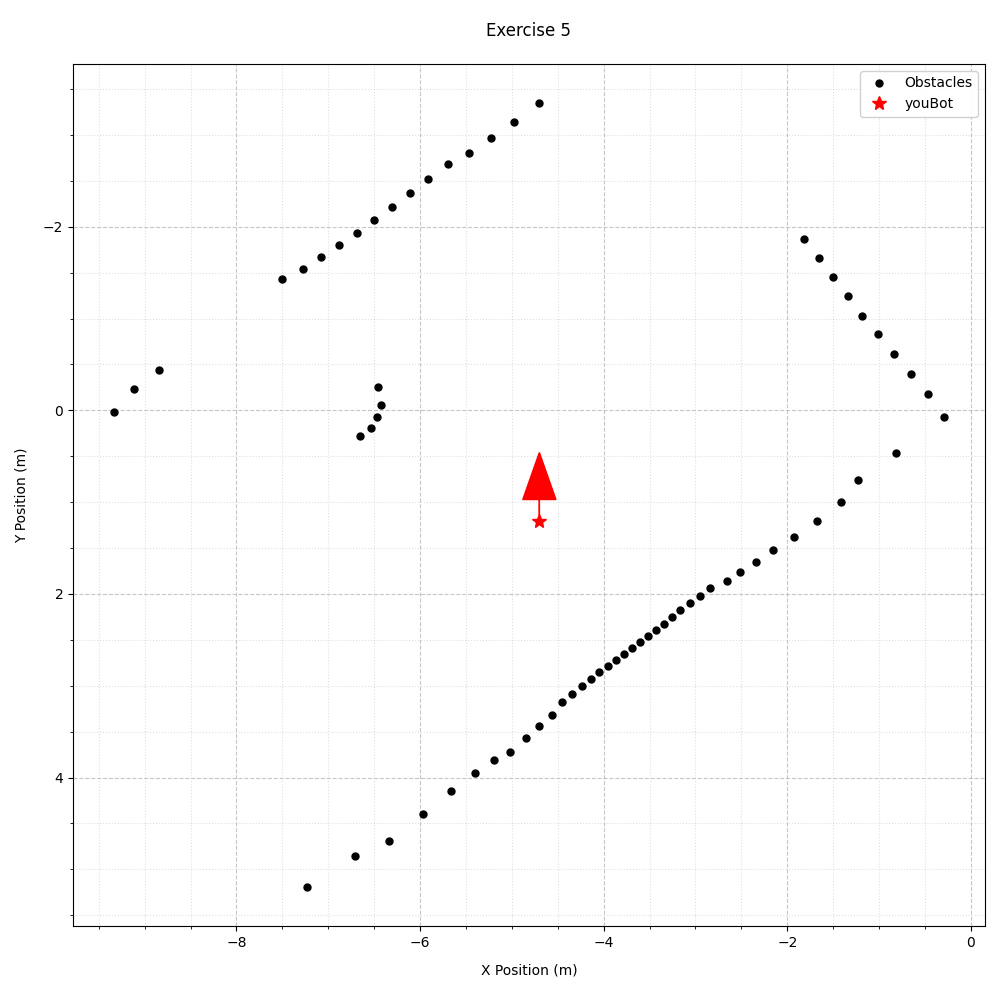
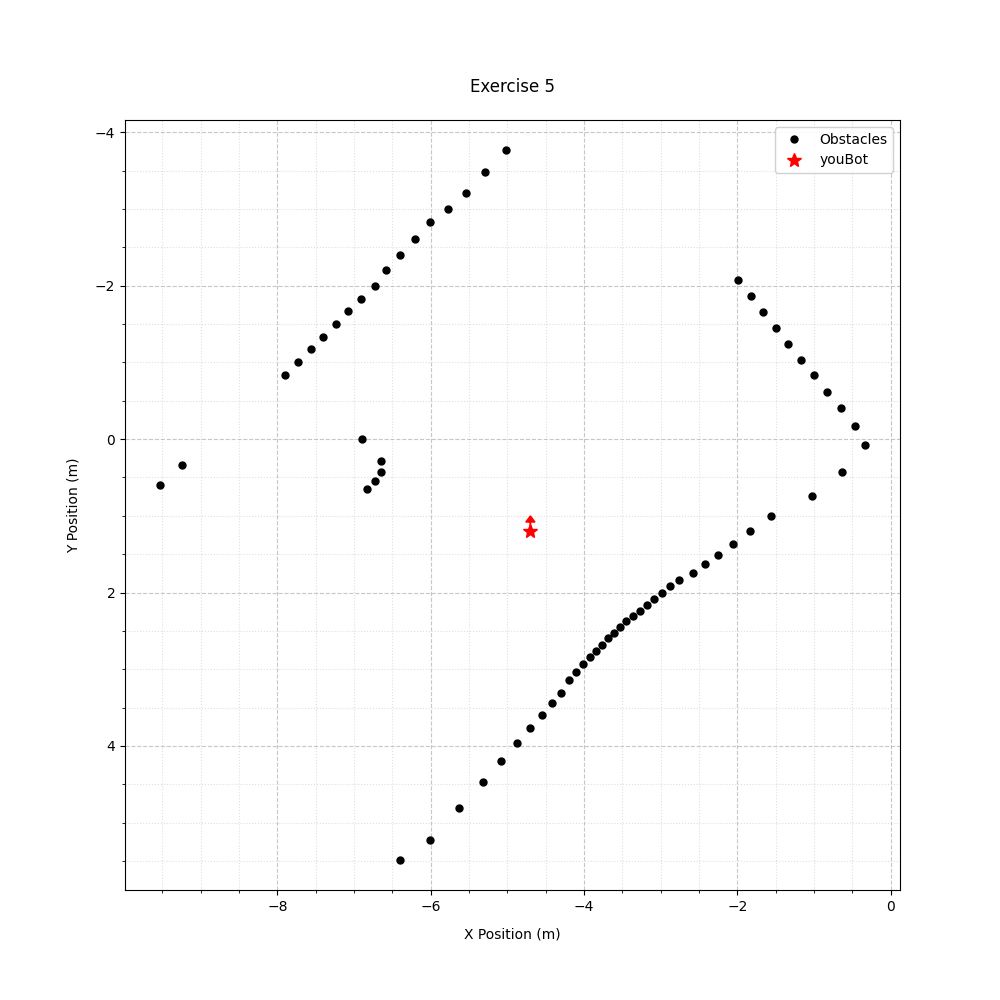
Exercise 5

diff --git a/utils/obstacle_plotter.py b/utils/obstacle_plotter.py
@@ -30,6 +30,17 @@ class ObstaclePlotter:
         ax.set_ylabel("Y Position (m)", labelpad=10)
         ax.legend(loc="upper right", framealpha=0.9)
 
+    @staticmethod
+    def _calculate_arrow_params(
+        position: Point2DWithOrientation,
+    ) -> Tuple[float, float, float, float]:
+        arrow_length = 0.20
+        dx = arrow_length * np.cos(position.yaw)
+        dy = arrow_length * np.sin(position.yaw)
+        head_width = arrow_length * 0.6
+        head_length = arrow_length * 0.4
+        return dx, dy, head_width, head_length
+
     def __create_static_plot(
         self,
         position: Point2DWithOrientation,
@@ -50,17 +61,14 @@ class ObstaclePlotter:
             label=RobotConstants.YOUBOT_NAME,
             markersize=10,
         )
-        plot_size = min(max(x) - min(x), max(y) - min(y)) if x else 0.5
-        arrow_length = plot_size * 0.20
-        dx = arrow_length * np.cos(position.yaw)
-        dy = arrow_length * np.sin(position.yaw)
+        dx, dy, head_width, head_length = self._calculate_arrow_params(position)
         ax.arrow(
             position.x,
             position.y,
             dx,
             dy,
-            head_width=arrow_length * 0.4,
-            head_length=arrow_length * 0.6,
+            head_width=head_width,
+            head_length=head_length,
             fc="r",
             ec="r",
             length_includes_head=True,
@@ -111,13 +119,13 @@ class ObstaclePlotter:
         self,
         position: Point2DWithOrientation,
         obstacles: Union[Tuple[float, float], List[Tuple[float, float]]],
-        closest_obstacle: Optional[ObstacleInfo] = None,
+        obstacle_info: Optional[ObstacleInfo] = None,
         title: str = "",
         file_name: Optional[str] = None,
     ) -> None:
         if not self.is_interactive:
             self.__create_static_plot(
-                position, obstacles, closest_obstacle, title, file_name
+                position, obstacles, obstacle_info, title, file_name
             )
             return
         if hasattr(self, "orientation_arrow") and self.orientation_arrow:
@@ -131,25 +139,23 @@ class ObstaclePlotter:
             plot_size = min(max(x) - min(x), max(y) - min(y))
         else:
             plot_size = 0.5
-        arrow_length = plot_size * 0.20
-        dx = arrow_length * np.cos(position.yaw)
-        dy = arrow_length * np.sin(position.yaw)
+        dx, dy, head_width, head_length = self._calculate_arrow_params(position)
         self.orientation_arrow = self.ax.arrow(
             position.x,
             position.y,
             dx,
             dy,
-            head_width=arrow_length * 0.2,
-            head_length=arrow_length * 0.4,
+            head_width=head_width,
+            head_length=head_length,
             fc="r",
             ec="r",
             length_includes_head=True,
             zorder=10,
         )
-        if closest_obstacle and closest_obstacle.closest_obstacle_position:
+        if obstacle_info and obstacle_info.closest_obstacle_position:
             self.ray_line.set_data(
-                [position.x, closest_obstacle.closest_obstacle_position[0]],
-                [position.y, closest_obstacle.closest_obstacle_position[1]],
+                [position.x, obstacle_info.closest_obstacle_position[0]],
+                [position.y, obstacle_info.closest_obstacle_position[1]],
             )
         else:
             self.ray_line.set_data([], [])

diff --git a/exercise5.py b/exercise5.py
@@ -9,10 +9,18 @@ def main():
     pattern_movement_controller = PatternMovementController(
         robot.wheel_movement_controller
     )
+    print("\n=== Starting 360 degrees Environment Scan ===")
     pattern_movement_controller.perform_360_scan()
     print("\nFinal position:")
     print(robot.position)
+    print(
+        "Obstacles detected during scan:",
+        len(robot.wheel_movement_controller.sensor_controller.obstacles),
+    )
+    print("\n=== Starting Forward Movement with Obstacle Detection ===")
     pattern_movement_controller.move_with_obstacle_detection(5.0, 5.0)
+    print("\nFinal position:")
+    print(robot.position)
 
 
 if __name__ == "__main__":

diff --git a/controllers/pattern_movement_controller.py b/controllers/pattern_movement_controller.py
@@ -453,9 +453,4 @@ class PatternMovementController:
             self.wheel_movement_controller.move_forward(step, speed)
             moved_distance += step
         plotter.stop_real_time_plotting()
-        plotter.update_plot(
-            self.wheel_movement_controller.position.to_point2d_with_orientation(),
-            self.wheel_movement_controller.sensor_controller.obstacles,
-            self.wheel_movement_controller.sensor_controller.find_closest_obstacle(),
-        )
         self.wheel_movement_controller.sensor_controller.reset_obstacles()
